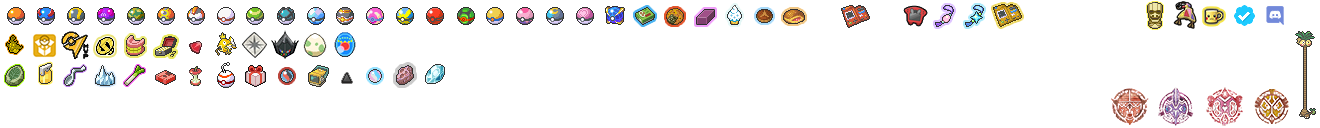
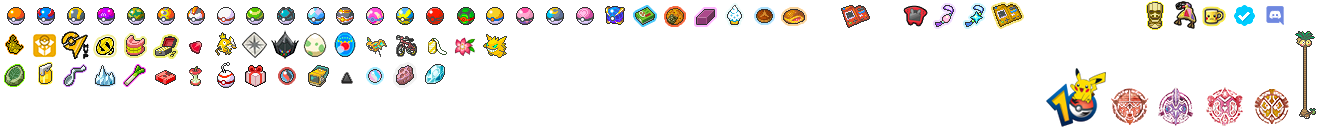
Improve visibility of 10th anniversary flair

diff --git a/src/userflair.css b/src/userflair.css
@@ -721,7 +721,7 @@ TEMPLATE:
 .author[href$="/bountyforcash"]~.flair:after,
 .author[href$="/GeekScientist"]~.flair:after,
 .author[href$="/IwataFan"]~.flair:after,
-.author[href$="/ACMM123"]~.flair:after,
+/*.author[href$="/ACMM123"]~.flair:after,*/
 .author[href$="/AndyJekal"]~.flair:after,
 .author[href$="/Resonance22"]~.flair:after,
 .author[href$="/TheDominantSoul"]~.flair:after {
@@ -944,7 +944,9 @@ TEMPLATE:
 /* 10th anniversary logo*/
 /*.author[href$="/username"]~.flair:after,*/
 .flair.flair-10logo:after {
-    background-position: -510px -30px;
+    background-position: -523px -34px;
+    background-size: 660px 64px;
+    image-rendering: auto;
 }
 
 /* TAPU CHALLENGE MEDALS */
@@ -1013,10 +1015,10 @@ TEMPLATE:
 }
 
 /* SnowPhoenix9999 NeverMeltIce
---------------------------------------------------------------------------------*/
+--------------------------------------------------------------------------------
 .author[href$="/SnowPhoenix9999"]~.flair:after {
     background-position: -90px -60px
-}
+}*/
 
 /* Jaksida Farfetch'd
 --------------------------------------------------------------------------------*/
